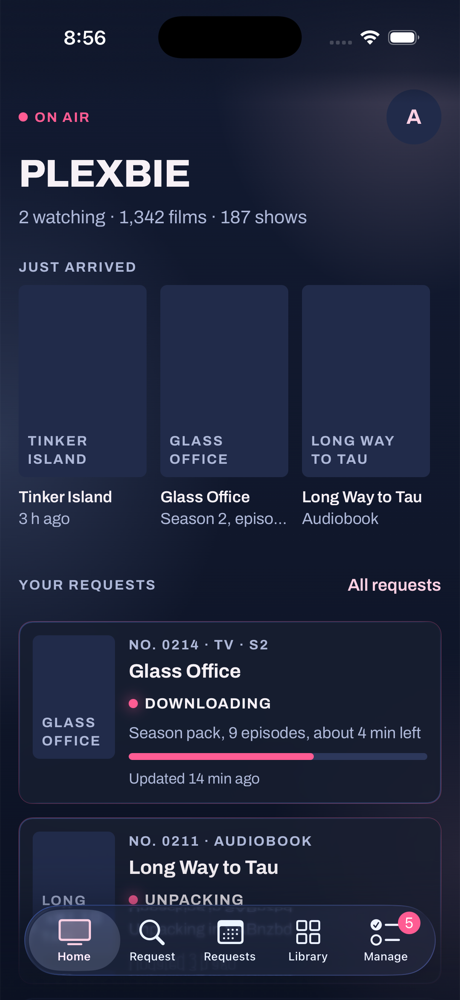
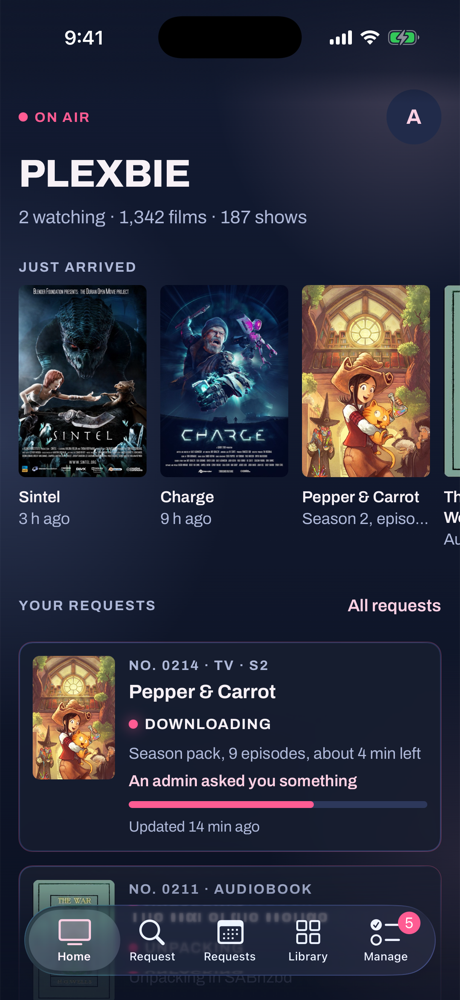
README: re-record the demos and screenshots with the free catalog
The GIFs and screenshots still showed the old drawn covers. Re-recorded from
the demo build (Blender open movies, Pepper & Carrot, public-domain films,
serials and books, with their own posters), and the app shots retaken on
iPhone and Android. The note under them now credits the artwork.
readme-shots.mjs opens each Manage section from its dropdown (the tab strip
is gone); demo-gifs.mjs searches for a show that's in the new catalog.

diff --git a/README.md b/README.md
@@ -80,7 +80,7 @@ Discord, the website or the phone app.
   </tr>
 </table>
 
-<p align="center"><sub><b>All made up.</b> Every title, cover, name and message in the video, these recordings and the screenshots below comes from Plexbie’s demo mode (the app’s sample household, for the app). None of it is a real library, household or person.</sub></p>
+<p align="center"><sub><b>Free to use, every frame.</b> The recordings and screenshots come from Plexbie’s demo mode (the app’s sample household, for the app). Its films, shows and books are real ones that anyone may show: <a href="https://studio.blender.org/films/">Blender Foundation</a> open movies and <a href="https://www.peppercarrot.com">Pepper &amp; Carrot</a> by David Revoy (CC BY), and public-domain films, serials and books, with their own posters and covers. The people, household and messages are made up.</sub></p>
 
 ## The website, built in
 
@@ -119,8 +119,8 @@ Requests, their progress, the library and, for admins, the whole Manage page, wi
   <tr>
     <td align="center" width="25%"><img src="docs/screens/app-iphone-home.png" alt="The app's home screen on iPhone: what just arrived and your requests" width="180"><br><sub><b>Home</b>, iPhone</sub></td>
     <td align="center" width="25%"><img src="docs/screens/app-android-requests.png" alt="My requests on Android, each with its stage and download progress" width="180"><br><sub><b>My requests</b>, Android</sub></td>
-    <td align="center" width="25%"><img src="docs/screens/app-iphone-title.png" alt="A show's page on iPhone, with the request already downloading" width="180"><br><sub><b>A title</b>, iPhone</sub></td>
-    <td align="center" width="25%"><img src="docs/screens/app-android-manage.png" alt="Manage on Android: help requests with Search again and Resolve" width="180"><br><sub><b>Manage</b>, Android</sub></td>
+    <td align="center" width="25%"><img src="docs/screens/app-iphone-title.png" alt="A film's page on iPhone: Sintel, already on Plex, with more like it" width="180"><br><sub><b>A title</b>, iPhone</sub></td>
+    <td align="center" width="25%"><img src="docs/screens/app-android-manage.png" alt="Manage on Android: requests waiting for a decision, with Approve and Decline" width="180"><br><sub><b>Manage</b>, Android</sub></td>
   </tr>
 </table>
 
